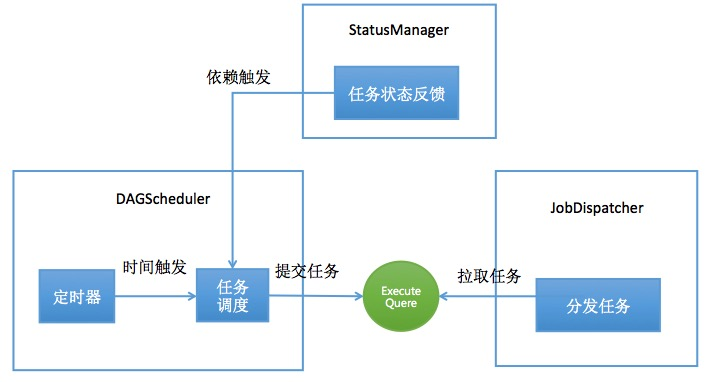
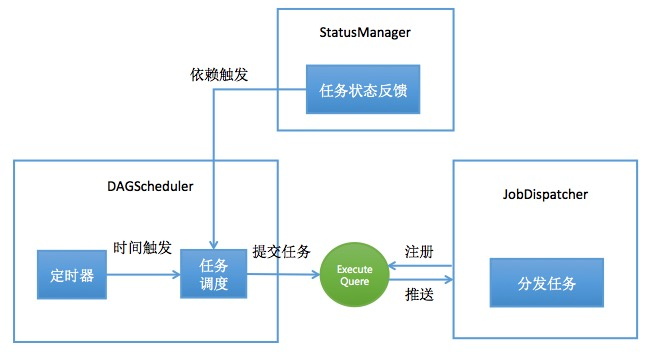
update jarvis2_design.md

diff --git a/docs/design/jarvis2_design.md b/docs/design/jarvis2_design.md
@@ -105,9 +105,13 @@ DAGScheduler为调度模块，负责定时任务和依赖任务的调度，JobDi
 
 ![调度器](http://gitlab.mogujie.org/bigdata/jarvis2/raw/master/docs/design/img/core_scheduler_new.png)
 
-如上图所示：
+如上图所示：  
 
-- DAGScheduler，ExecuteQueue和JobDispatcher是一个生产者、消费者的关系，DAGScheduler是生产者，负责向执行队列中提交任务，是push的方式。JobDispatcher是消费者，从执行队列中取任务，是pull的方式。
+- DAGScheduler提交任务并不是直接提交给JobDispatcher，而是先发送给ExecuteQueue。
+
+- JobDispatcher首先向ExecuteQueue注册自己，当ExecuteQueue中有任务到来的时候，会主动推送给JobDispatcher。如果注册多个JobDispatcher实例，则可以并发分发任务。
+
+- DAGScheduler和JobDispatcher是一个生产者、消费者的关系，DAGScheduler是生产者，负责向执行队列中提交任务。JobDispatcher是消费者，由执行队列主动推送任务给JobDispatcher。
 
 - StatuManager维护任务状态，向DAGScheduler发送事件，进行依赖触发。
 
